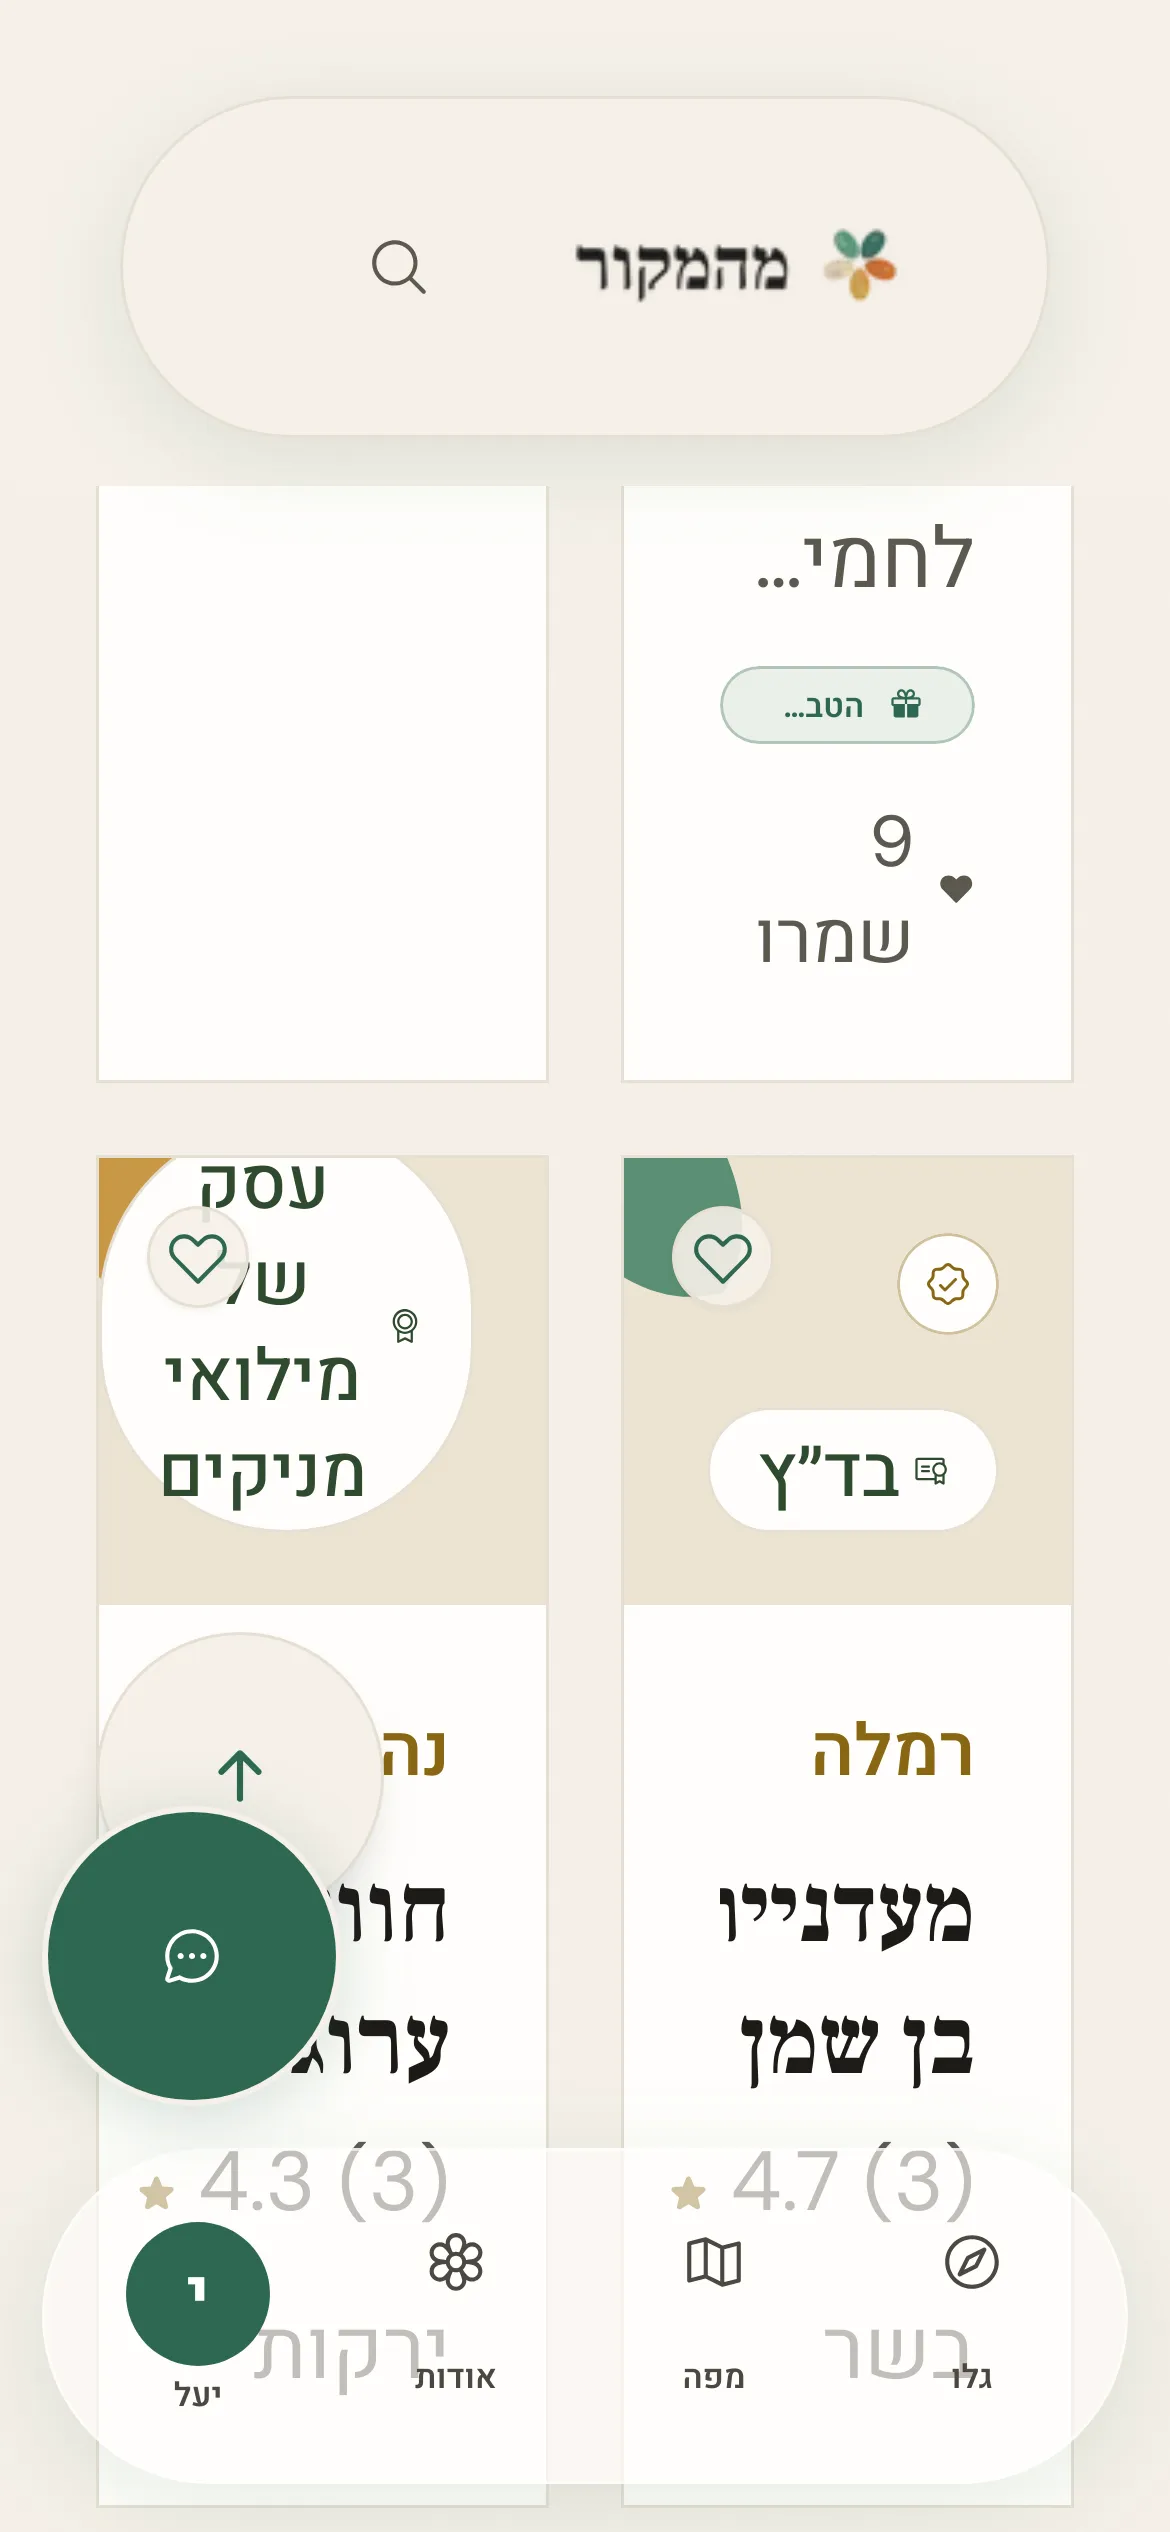
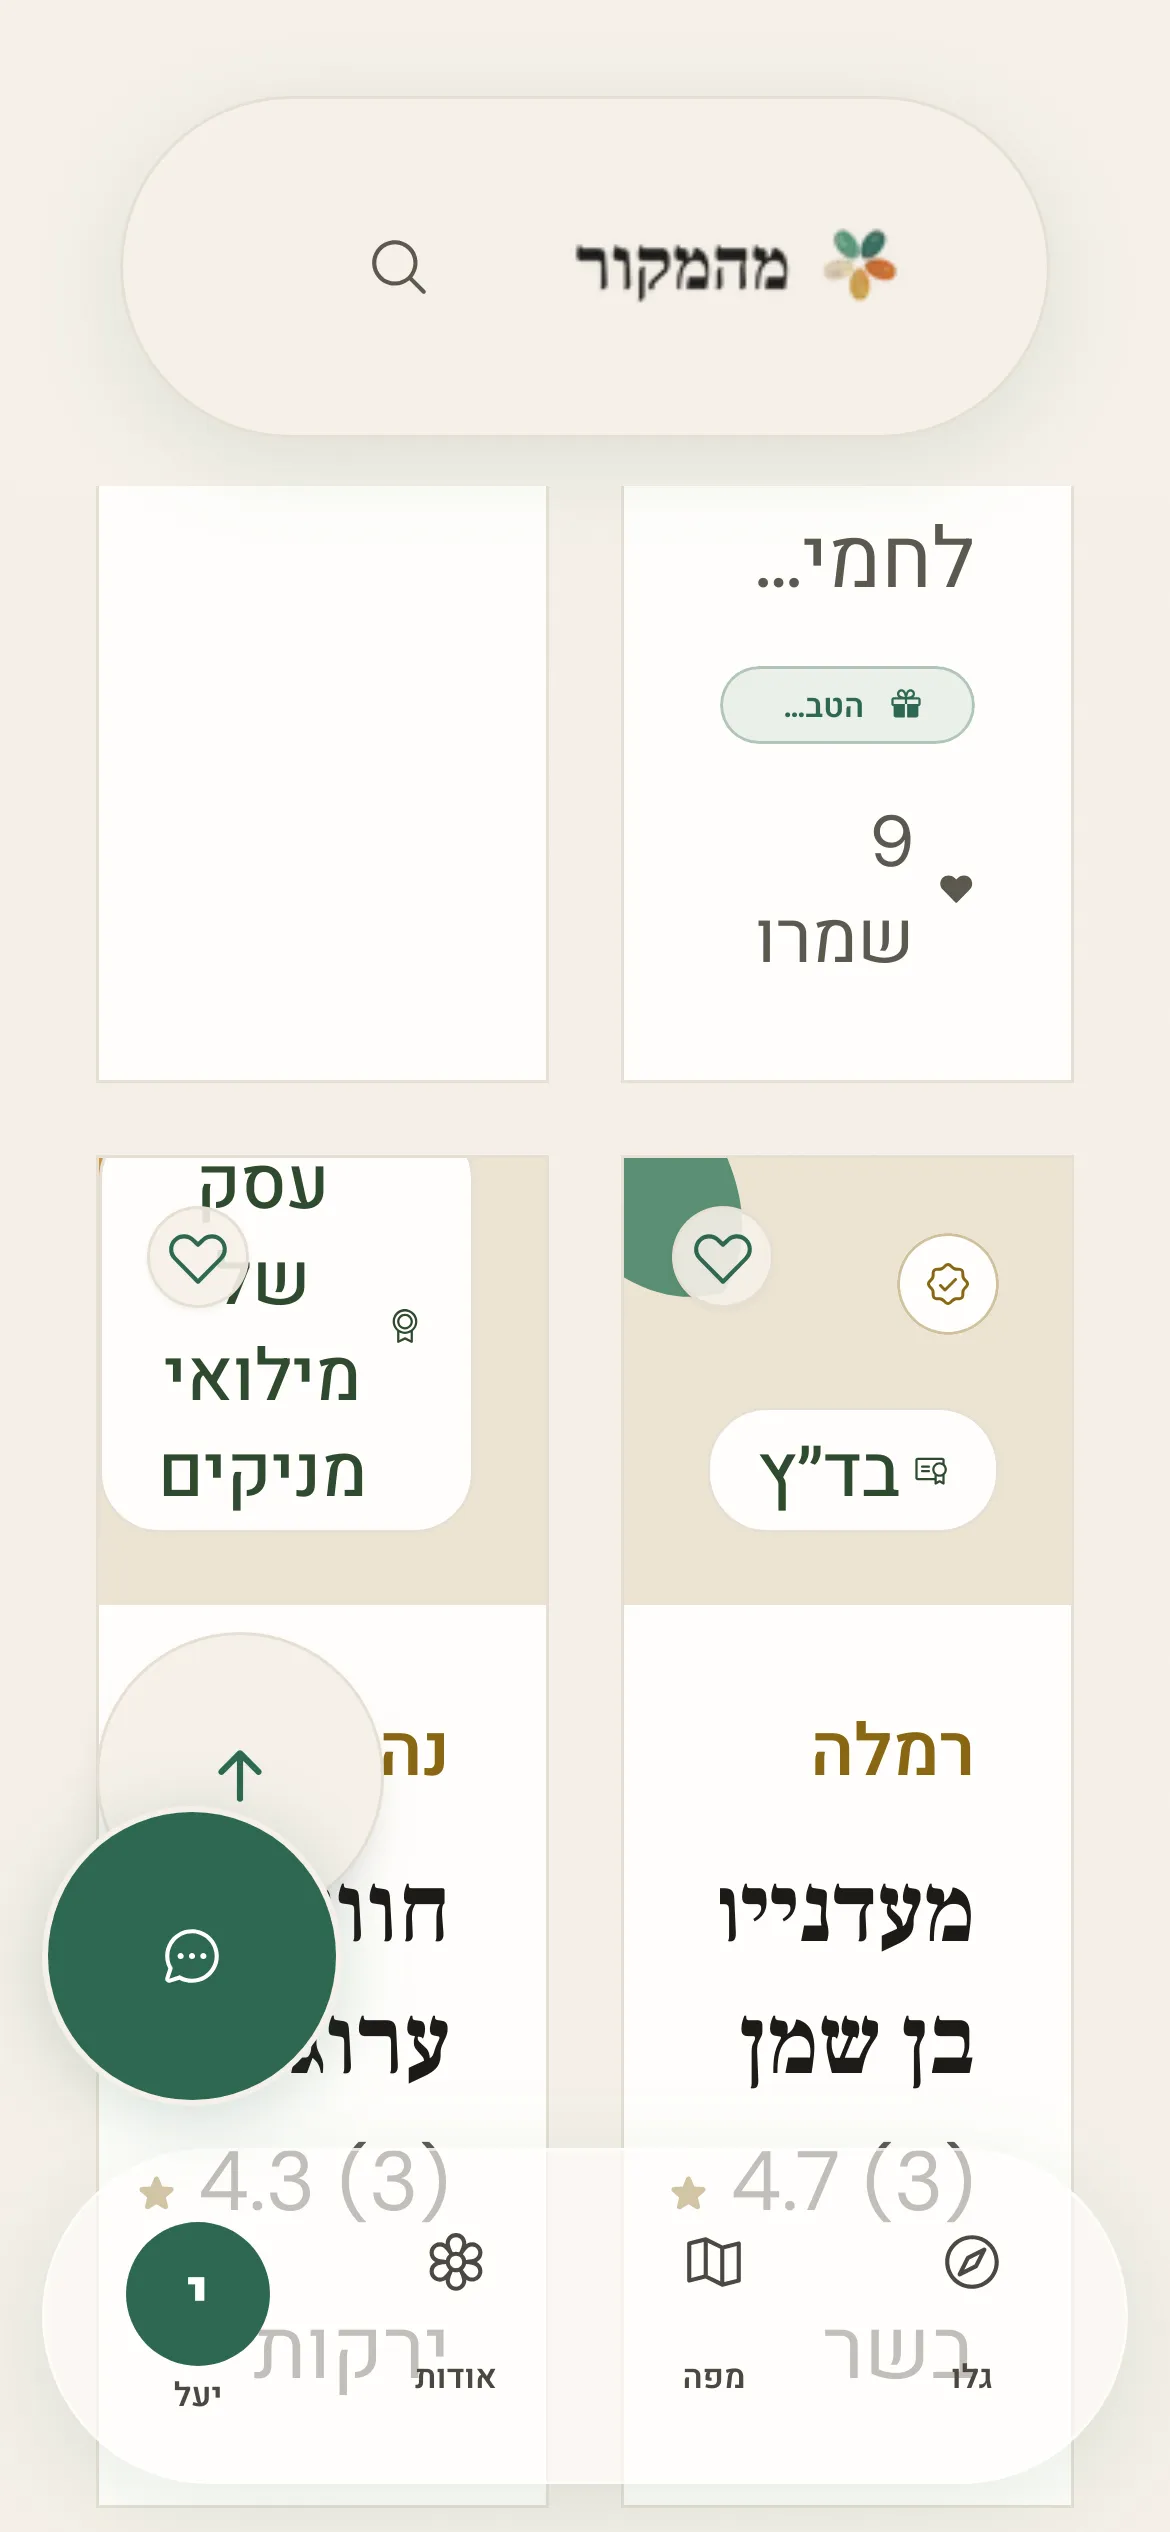
fix: the bell stops short of the heart at 200% text; a wrapped card badge stays a rounded rectangle
Reviewer findings on this PR:
- At 200% text the «עדכונים» pill grew to ~145px on a 166px card and covered
  29px of the heart. Its width is capped (100% − 58px phone, − 76px from sm) so
  it stops 8px before the heart; the label truncates, the accessible name keeps
  the full text. Measured after: gap 9px at 200%, 40px at 100%.
- rounded-full turned a wrapped 4-line badge into an ellipse. rounded-xl gives
  identical ends on a one-line pill (radius ≥ half its height, in rem) and a
  rounded rectangle when it wraps.
- The bell/heart test now checks the sm corners and the width cap; stale
  comments fixed.

Refs MEH-2849

Builder-Model: claude-opus-5-5

Claude-Session: https://claude.ai/code/session_01NkoF2avAvsg42ZnZk6S1x5

diff --git a/frontend/components/BadgeRow.jsx b/frontend/components/BadgeRow.jsx
@@ -370,10 +370,16 @@ function Badge({ badge, surface = "hero", avoidRef = null }) {
   // the toggle, Esc/outside-click dismissal, and the ProducerCard-Link tap
   // guard that used to live inline here.
   return (
-    // MEH-2849: max-w-full down the chain so a long label (e.g. «עסק של
-    // מילואימניקים» at 200% text on a 375 card) wraps inside the card instead
-    // of running past it — measured 35px off-screen before. Labels that fit
-    // render exactly as before.
+    // MEH-2849: a long label (e.g. «עסק של מילואימניקים» at 200% text on a 375
+    // card) wraps inside the card instead of running past it — measured 35px
+    // off-screen before. What makes it wrap is the label's min-w-0 +
+    // overflow-wrap (the Popover's inline-block wrapper then fits the
+    // available width); max-w-full keeps each box from asking for more.
+    // rounded-xl, not rounded-full: on a one-line pill the 0.75rem radius is
+    // ≥ half its height, so the ends are exactly as round as before (it scales
+    // with rem, so this holds at 200% too); on a wrapped pill it stays a
+    // rounded rectangle instead of swelling into an ellipse. Labels that fit
+    // render as before.
     <span role="listitem" className="inline-block max-w-full">
       <Popover
         contentTestId={`badge-tooltip-${badge.key}`}
@@ -392,7 +398,7 @@ function Badge({ badge, surface = "hero", avoidRef = null }) {
             data-badge={badge.key}
             className="group inline-flex items-center justify-center min-h-[24px] min-w-[24px] max-w-full focus:outline-none"
           >
-            <span className={`inline-flex items-center max-w-full ${compact ? "gap-0.5 px-2" : "gap-1 px-2.5"} text-xs py-0.5 rounded-full font-medium group-focus-visible:ring-2 group-focus-visible:ring-primary/40 transition ${colorClass}`}>
+            <span className={`inline-flex items-center max-w-full ${compact ? "gap-0.5 px-2" : "gap-1 px-2.5"} text-xs py-0.5 rounded-xl font-medium group-focus-visible:ring-2 group-focus-visible:ring-primary/40 transition ${colorClass}`}>
               {/* MEH-2584: same glyph as the filter chip (lib/chip-icons.js),
                   aria-hidden — the label stays the accessible name. */}
               {icon && <span aria-hidden="true" className="inline-flex shrink-0">{icon}</span>}

diff --git a/frontend/app/[locale]/favorites/FavoritesClient.jsx b/frontend/app/[locale]/favorites/FavoritesClient.jsx
@@ -85,17 +85,21 @@ function FavoriteCardWrapper({ fav, open, onToggle, onClose }) {
         data-testid="favorites-bell"
         // MEH-1203: mirror CardHeart's density variant (ProducerCard.jsx:144)
         // so the bell keeps a comfortable tap target inside the smaller 2-col
-        // card — 34px on mobile, 44px sm: up, top-end corner opposite the heart.
+        // card — 34px on mobile, 44px sm: up.
         // MEH-2526: circle → pill so the label sits beside the bell; same
-        // heights, same corner.
+        // heights.
         // MEH-2849: #4000 (MEH-2671) moved the card heart to the top-END
         // corner, which is where this bell sat — it covered the heart, so a tap
         // on the heart hit «עדכונים» and nothing was removed. The bell takes the
-        // corner opposite the heart again: top-START.
-        className="absolute top-2 start-2 sm:top-3 sm:start-3 h-[34px] sm:h-11 px-2.5 sm:px-3 gap-1 flex items-center justify-center rounded-full bg-background/90 hover:bg-background text-primary transition z-10"
+        // corner opposite the heart: top-START. Its width is capped so that even
+        // at 200% text (bell ≈145px on a 166px card) it stops 8px before the
+        // heart: card − start inset − heart − end inset − 8px gap = 100% − 58px
+        // on a phone (8+34+8+8), 100% − 76px from sm (12+44+12+8). Below that
+        // width the label truncates; the accessible name keeps the full text.
+        className="absolute top-2 start-2 sm:top-3 sm:start-3 max-w-[calc(100%-58px)] sm:max-w-[calc(100%-76px)] h-[34px] sm:h-11 px-2.5 sm:px-3 gap-1 flex items-center justify-center rounded-full bg-background/90 hover:bg-background text-primary transition z-10"
       >
-        <Bell size={18} weight={open ? "fill" : "regular"} aria-hidden="true" />
-        <span className="text-xs font-medium">{t("bell_label")}</span>
+        <Bell size={18} weight={open ? "fill" : "regular"} aria-hidden="true" className="shrink-0" />
+        <span className="text-xs font-medium min-w-0 truncate">{t("bell_label")}</span>
       </button>
       {open && (
         // MEH-1359: out of flow. Mobile → fixed bottom-sheet above BottomNav

diff --git a/frontend/__tests__/BadgeRow.test.jsx b/frontend/__tests__/BadgeRow.test.jsx
@@ -332,10 +332,10 @@ describe("BadgeRow", () => {
 
 // MEH-2849: at 200% text on a 375 phone the «עסק של מילואימניקים» pill was
 // wider than its card and ran 35px off-screen (44-text-scale, / and
-// /producers). Every link of the chain is capped at its parent's width and the
-// label may break, so a long label wraps INSIDE the card. jsdom has no layout,
-// so this pins the classes that make the wrap possible; the 200% run is in
-// e2e/flows/44-text-scale.spec.ts.
+// /producers). The label may now shrink and break, so a long label wraps INSIDE
+// the card, and the pill is rounded-xl so a wrapped pill stays a rounded
+// rectangle. jsdom has no layout, so this pins the classes that make it
+// possible; the 200% run is in e2e/flows/44-text-scale.spec.ts.
 describe("BadgeRow — a long card label wraps inside the card (MEH-2849)", () => {
   it("listitem, button and pill are max-w-full; the label can shrink and break", () => {
     render(<BadgeRow producer={{ reservist_owned: true, verification_tier: null }} surface="card" limit={2} />);
@@ -348,6 +348,8 @@ describe("BadgeRow — a long card label wraps inside the card (MEH-2849)", () =
     expect(pill.className.split(/\s+/)).toContain("max-w-full");
     expect(label.className.split(/\s+/)).toEqual(expect.arrayContaining(["min-w-0", "[overflow-wrap:anywhere]"]));
     expect(label.textContent.length).toBeGreaterThan(0);
+    expect(pill.className.split(/\s+/)).toContain("rounded-xl");
+    expect(pill.className.split(/\s+/)).not.toContain("rounded-full");
   });
 });
 

diff --git a/frontend/__tests__/FavoritesBellLabel.test.jsx b/frontend/__tests__/FavoritesBellLabel.test.jsx
@@ -155,6 +155,14 @@ describe("MEH-2849 · the bell sits opposite the card heart", () => {
     expect(bellSide, "control: the bell sits in a logical top corner").not.toBeNull();
     expect(bellSide).not.toBe(heartSide);
     expect(bellSide).toBe("start");
+    // …at sm+ too (the 44px heart sits at sm:end-3).
+    const smHeart = /(?:^|\s)sm:(start|end)-3(?:\s|$)/.exec(heartClass)?.[1];
+    expect(smHeart, "control: the heart has an sm corner").toMatch(/^(start|end)$/);
+    const smBell = bellCls.includes("sm:start-3") ? "start" : bellCls.includes("sm:end-3") ? "end" : null;
+    expect(smBell).not.toBe(smHeart);
+    // At 200% text the bell grows to ~145px on a 166px card; the cap keeps it
+    // 8px short of the heart (measured by the PR reviewer, 08/11).
+    expect(bellCls).toEqual(expect.arrayContaining(["max-w-[calc(100%-58px)]", "sm:max-w-[calc(100%-76px)]"]));
   });
 });
 
